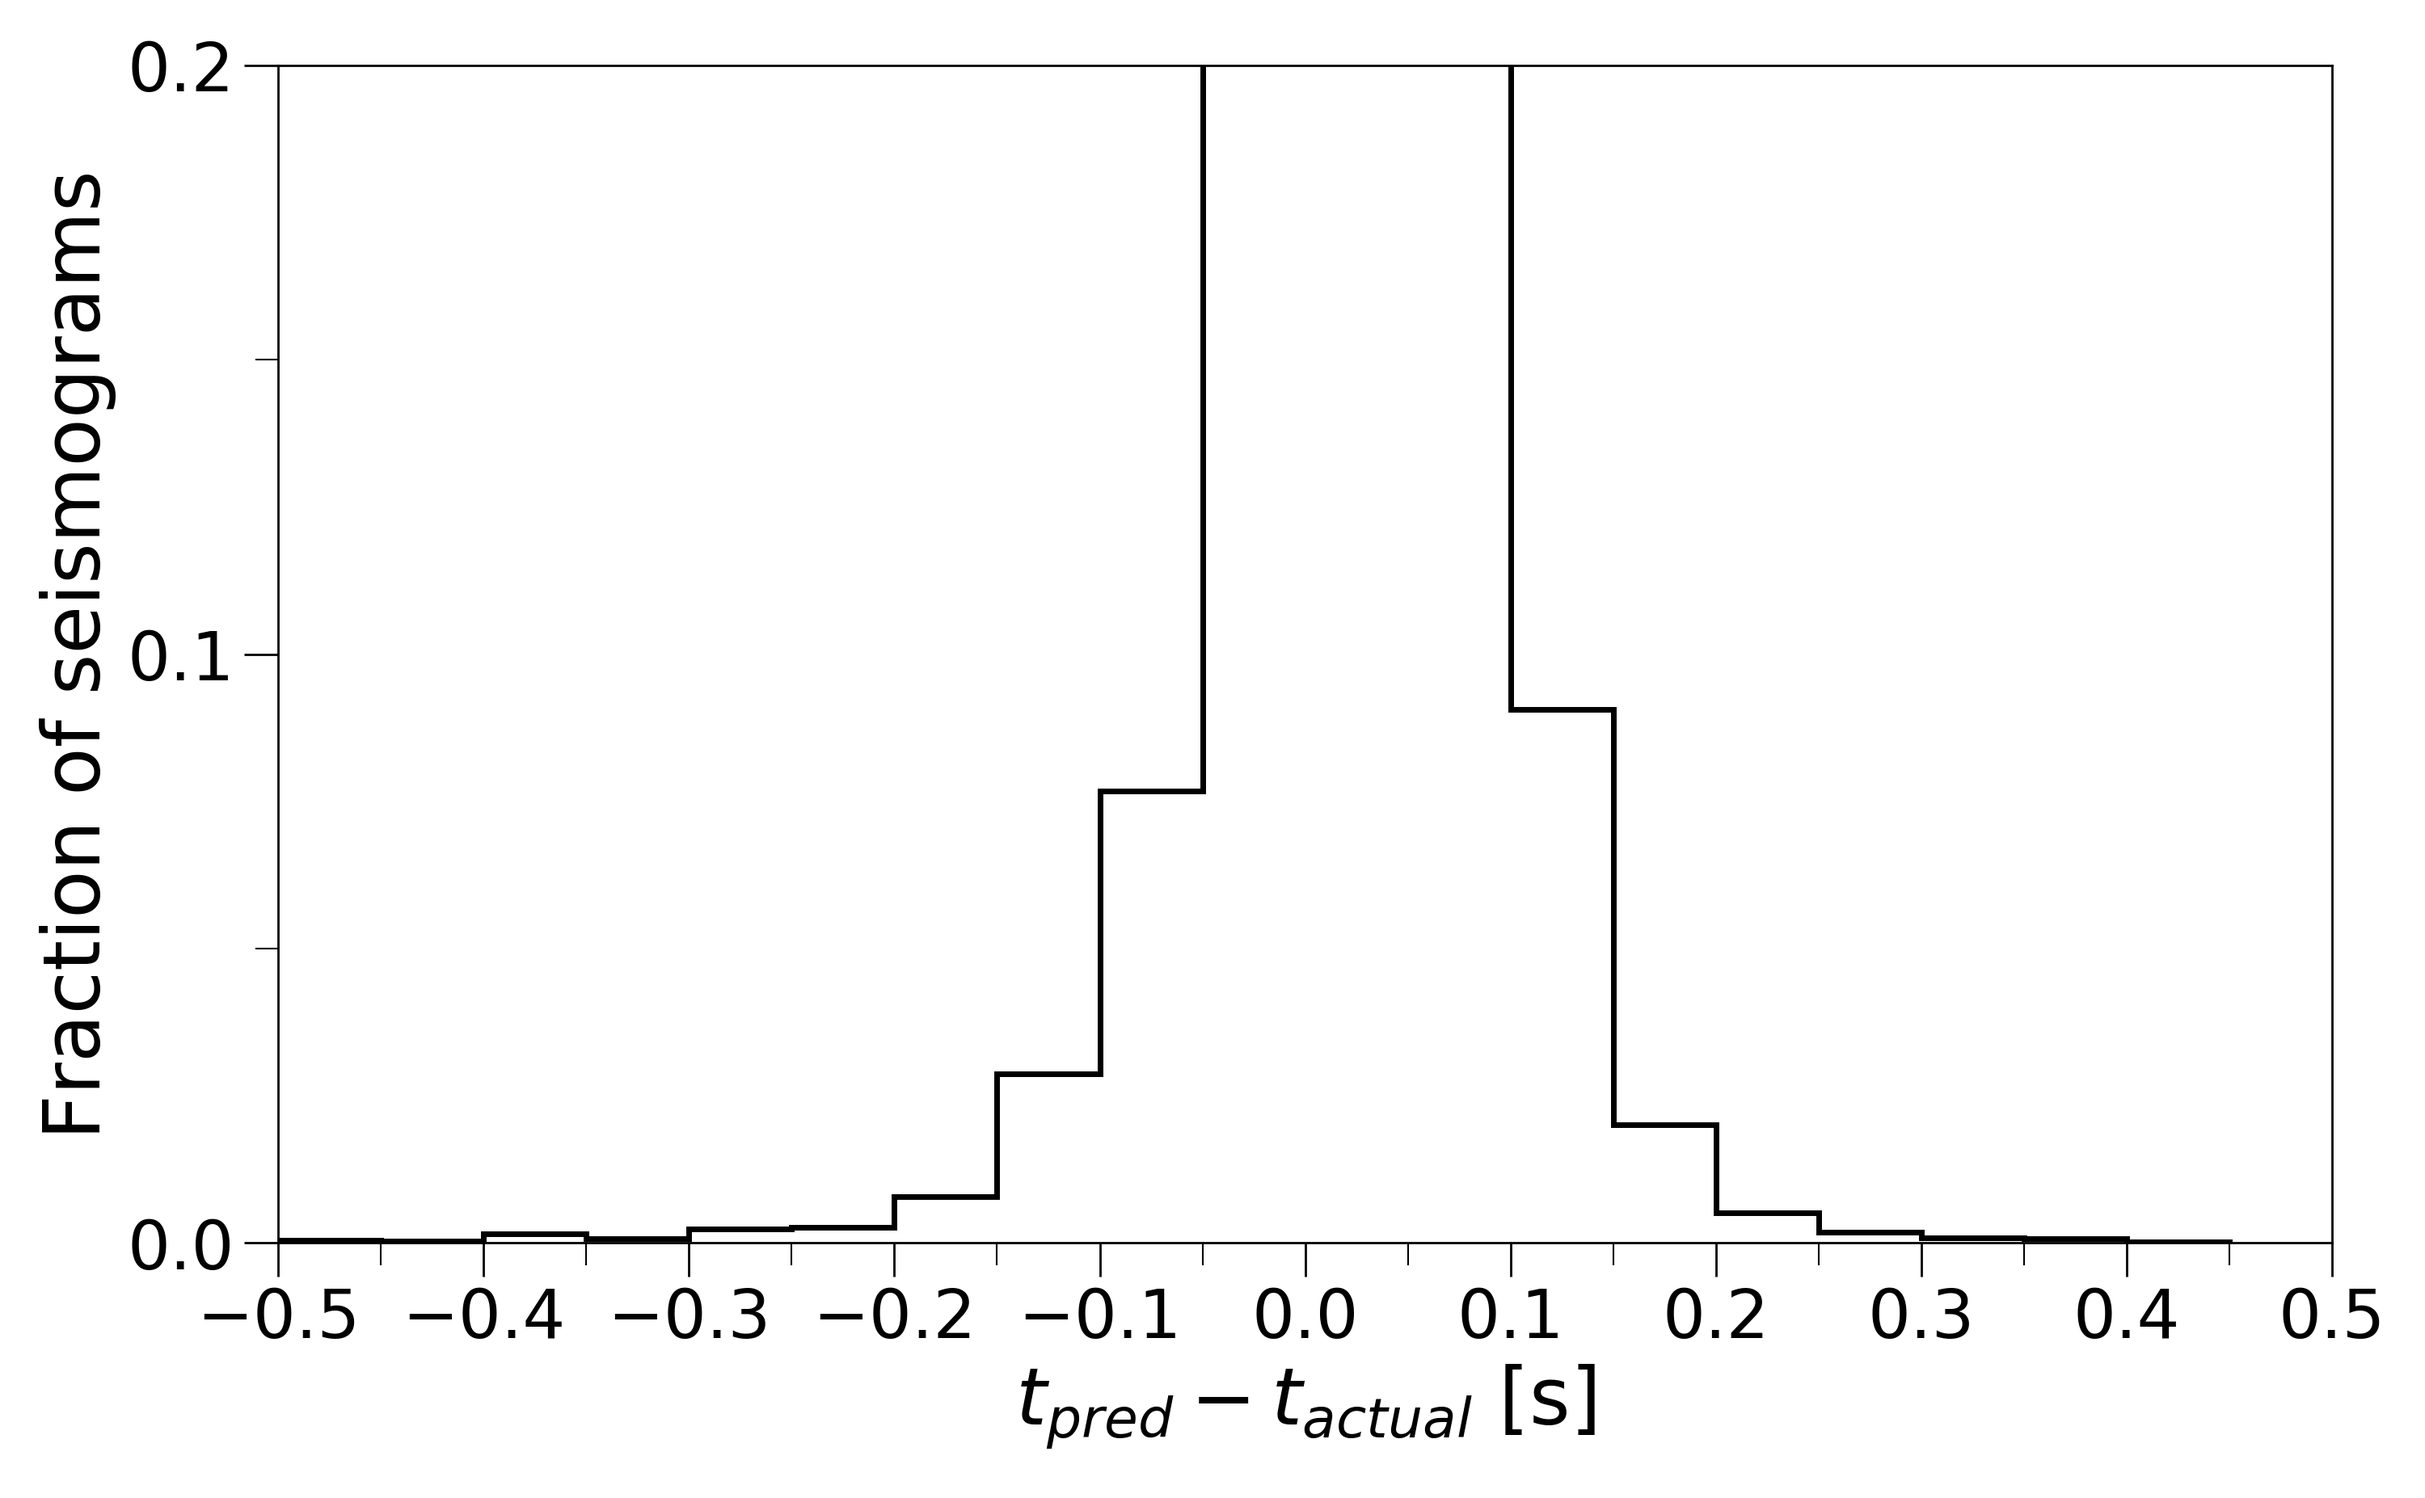
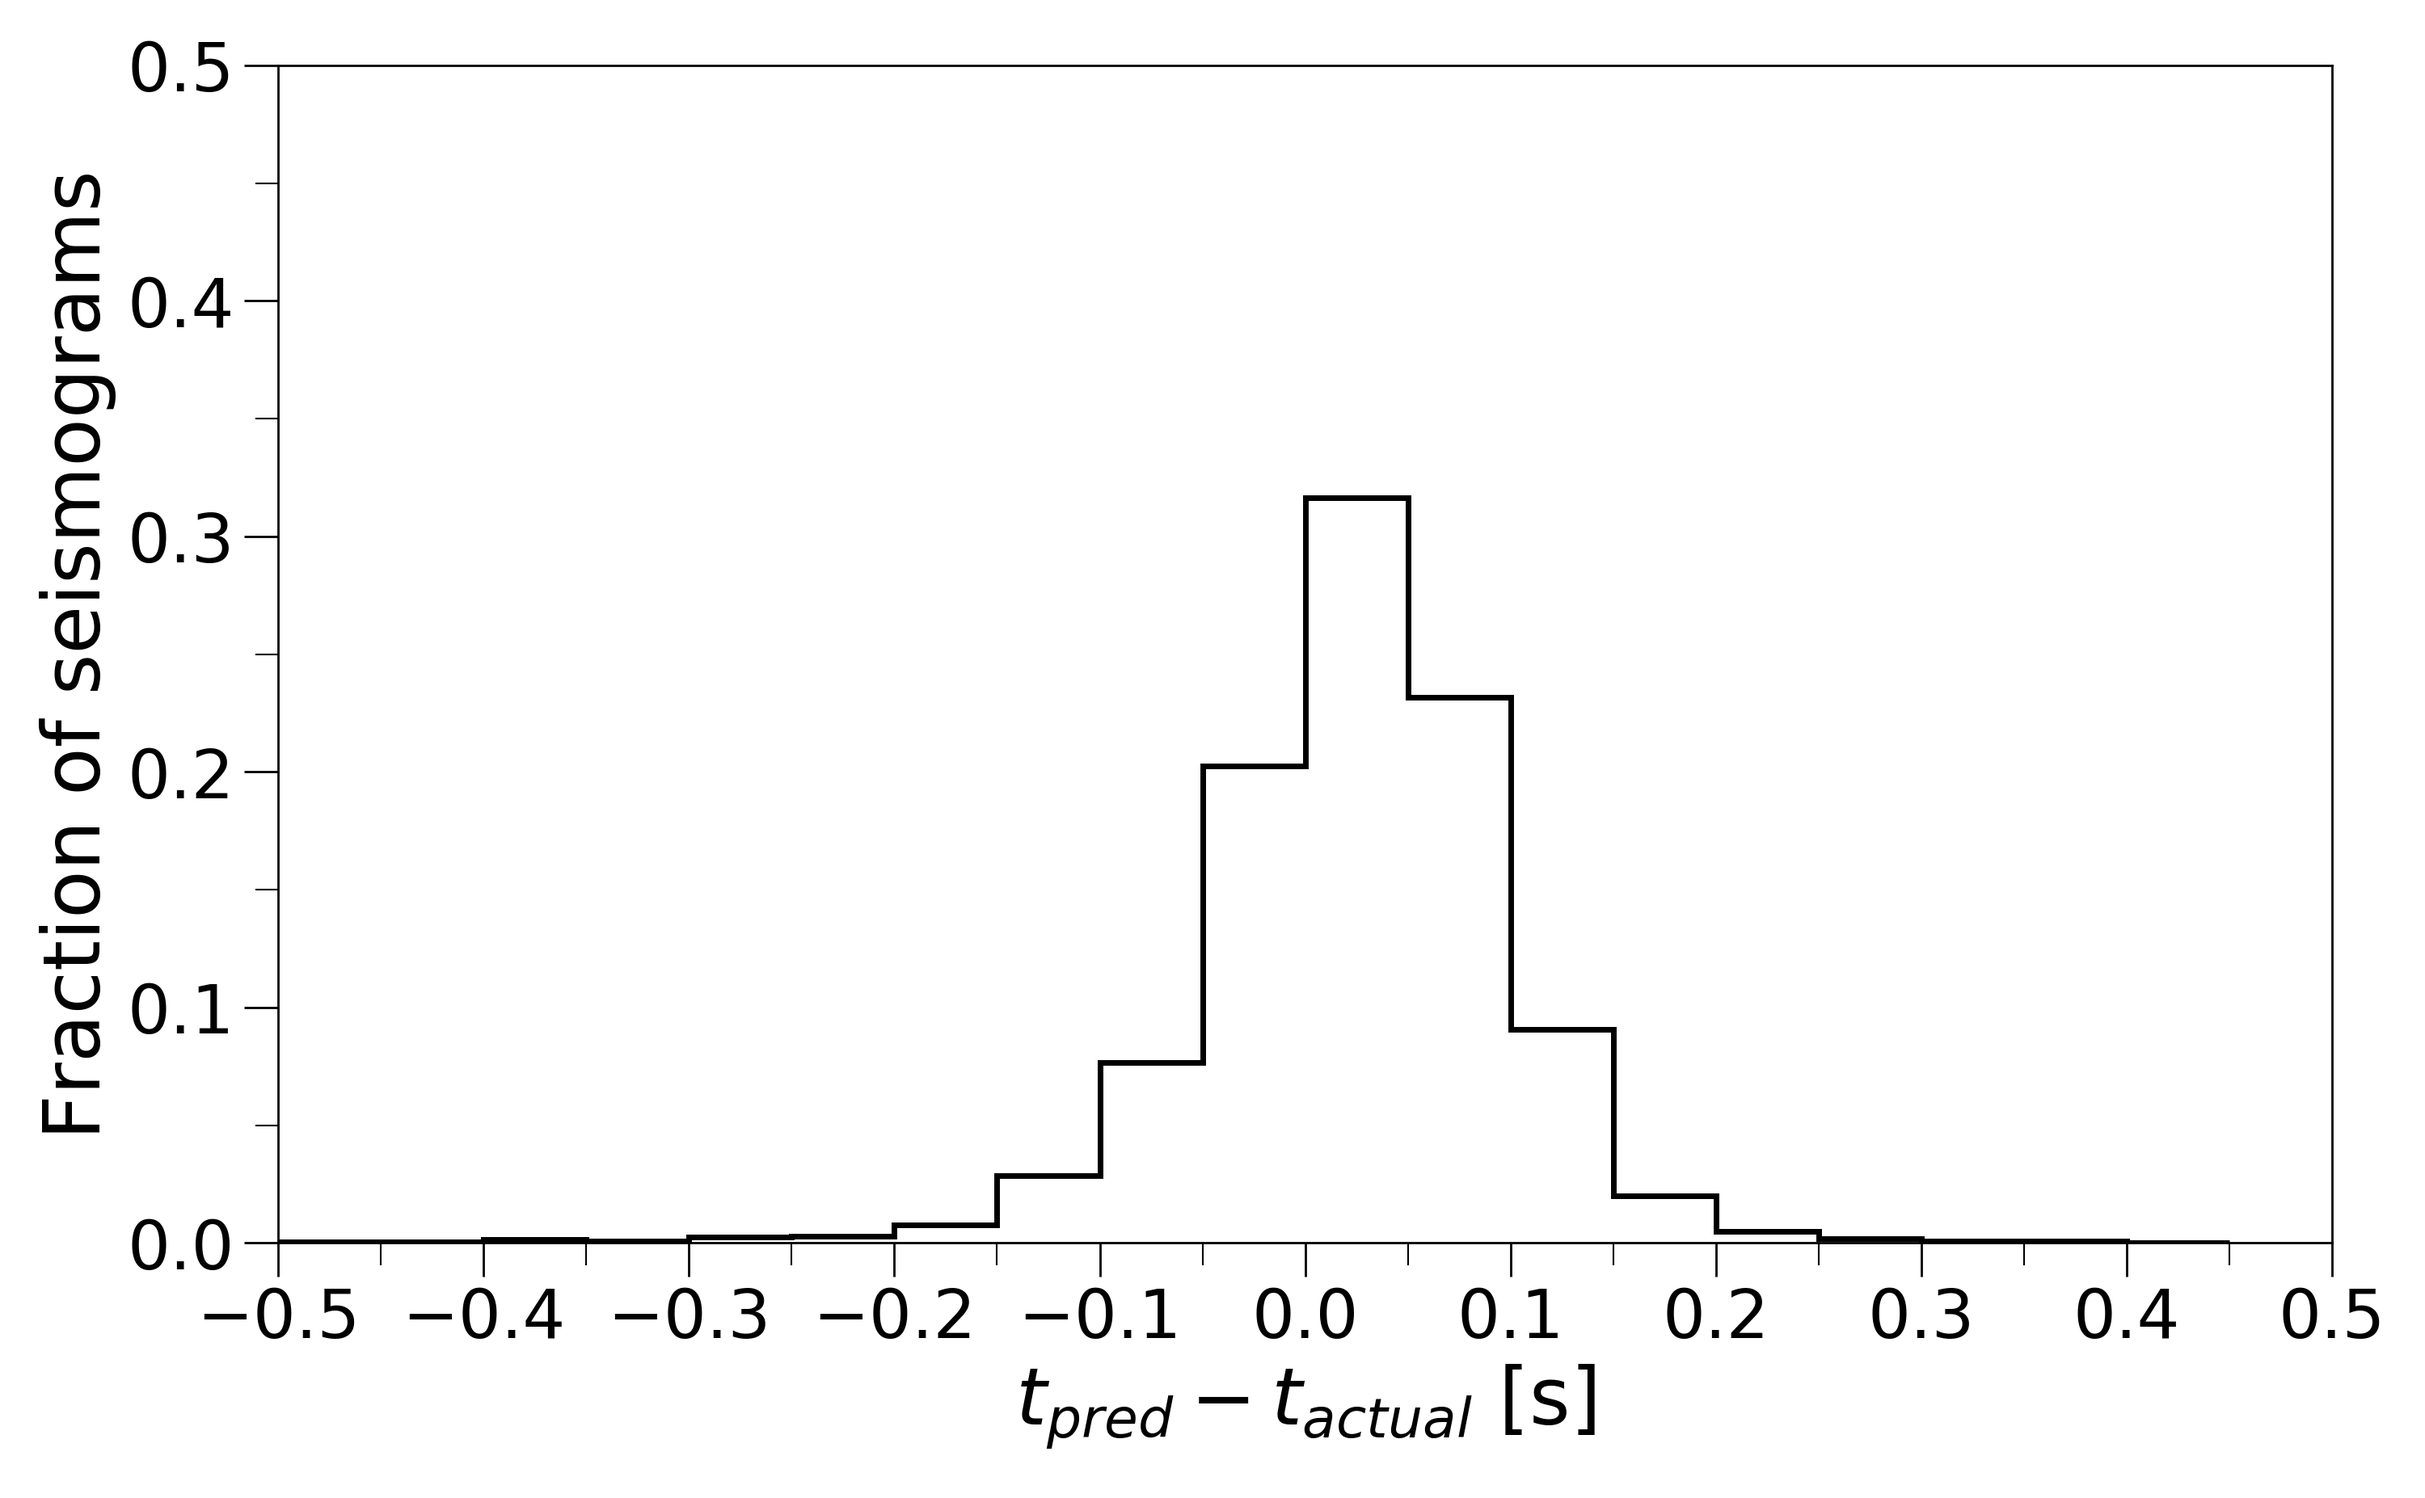
Update

diff --git a/exp_src/shifting_pred.py b/exp_src/shifting_pred.py
@@ -70,7 +70,7 @@ shift_hist = ax.hist(shift_error, np.arange(-0.5, 0.5, 0.05), histtype='step', a
 #simple_hist = ax.hist(simple_error, np.arange(-1, 1, 0.1), histtype='step', align='mid',
 #               color='green', linewidth=2, weights=weights, cumulative=False, label='Single Window')
 ax.set_xlim(-0.5, 0.5)
-ax.set_ylim(0, 0.2)
+ax.set_ylim(0, 0.5)
 ax.xaxis.set_major_locator(mtick.MultipleLocator(0.1))
 ax.yaxis.set_major_locator(mtick.MultipleLocator(0.1))
 ax.xaxis.set_minor_locator(mtick.MultipleLocator(0.05))
